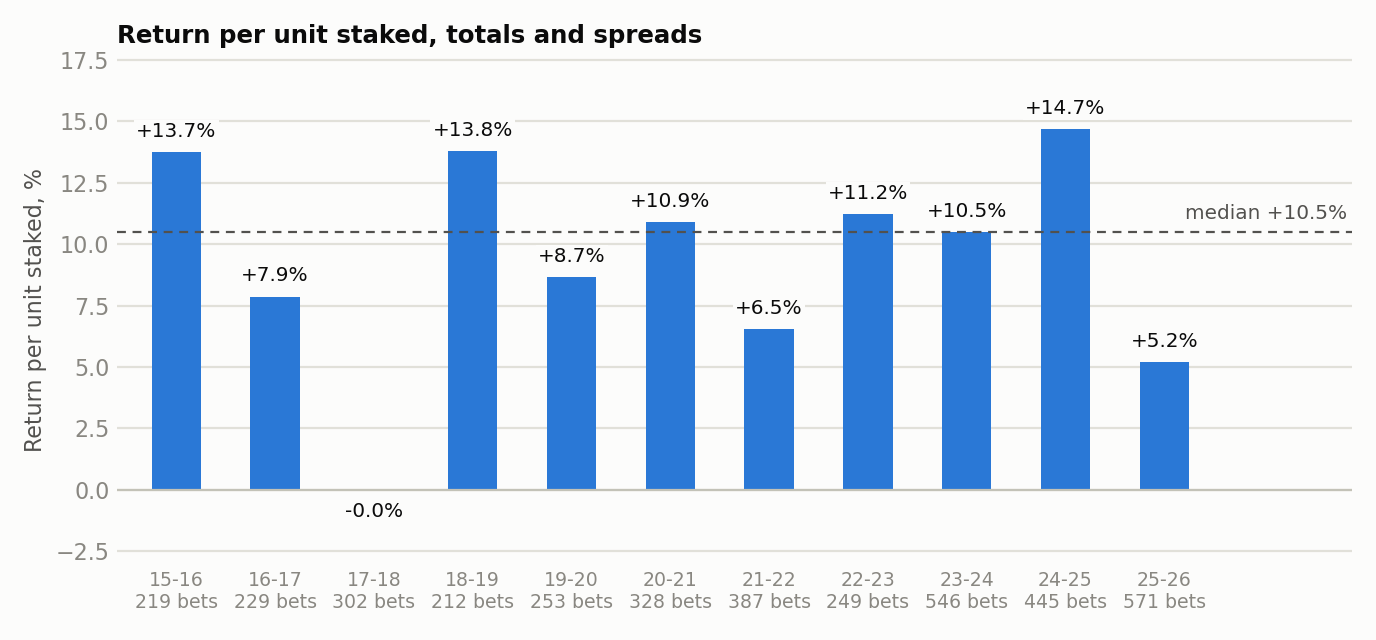
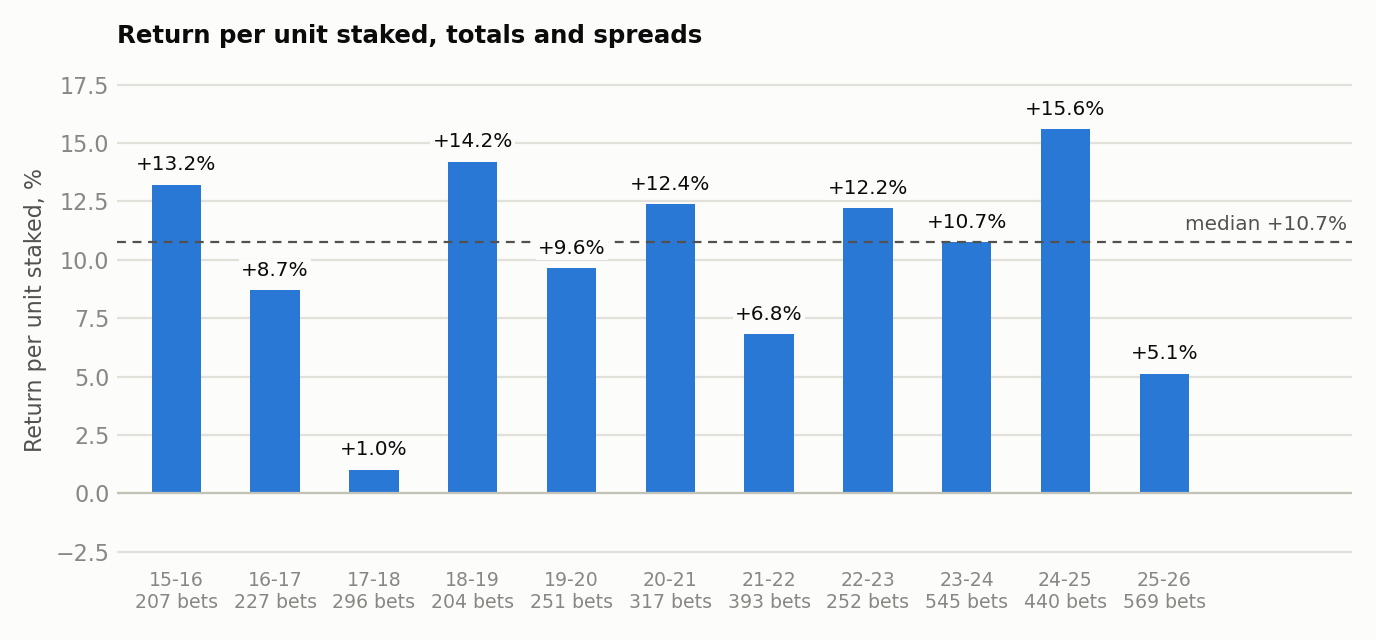
Spread backtest rebuilt with every game priced by the current model

diff --git a/docs/STRATEGIES.md b/docs/STRATEGIES.md
@@ -16,17 +16,17 @@ Everything here assumes the opening line is actually bet, which has not been sho
 
 | Strategy | Bets per season | Cover | ROI per bet | Season return at 1% stakes | Status |
 |---|---|---|---|---|---|
-| Spread, model gap 2+ points | 57 | 56.4% | +7.7% | +4.4% | Backtest only |
+| Spread, model gap 2+ points | 59 | 56.9% | +8.7% | +5.1% | Backtest only |
 | Totals, model gap 2+ points | 170 | 55.3% | +5.5% | +9.3% | Passed a pre-declared test |
 | Totals, same rule on 2007-12 (never tuned on) | 137 | 57.4% | +9.5% | +13.0% | Holdout |
 | Totals, bet only within 1 point of the opener | about 140 | about 55.3% | about +5.5% | about +8% | Under live test |
-| Either rule, stake in proportion to the gap | same bets | same | +9.1% spread, +6.9% totals | +6.7%, +16.1% | Logged beside the flat stake |
+| Either rule, stake in proportion to the gap | same bets | same | +9.8% spread, +6.9% totals | +7.5%, +16.1% | Logged beside the flat stake |
 | Moneyline, four rules frozen before the season | about 75 | not comparable | no line value | not estimated | Live; likely no edge |
 | Player points | not a rule yet | 52.6% at a 5+ point probability gap | +0.7% | not estimated | Not bettable |
 
 The gap is how far the model's number sits from the line, in points.
 
-Every weight behind these figures was learned from seasons before the one being scored. An earlier version of this page combined the spread model's pieces as they had been designed on 2021-22 to 2025-26, which flattered those seasons (60.2% against 56.2% before); with the weights learned walk-forward the rule covers 57.1% on 392 bets in 2012-21 and 55.7% on 409 since, and [how the pieces are weighted](#how-the-pieces-are-weighted) has the detail. The totals model was specified before its results were looked at.
+Every weight behind these figures was learned from seasons before the one being scored. An earlier version of this page combined the spread model's pieces as they had been designed on 2021-22 to 2025-26, which flattered those seasons (60.2% against 56.2% before); with the weights learned walk-forward the rule covers 57.7% on 409 bets in 2012-21 and 56.2% on 420 since, and [how the pieces are weighted](#how-the-pieces-are-weighted) has the detail. The totals model was specified before its results were looked at.
 
 The 2024-25 opening lines behind these figures were repaired after a fault in the source feed, which the [engine page](ENGINE.md#a-repair-to-the-2024-25-opening-lines) describes.
 
@@ -46,32 +46,32 @@ Across 15,911 games the final margin moves 0.39 points for every point the model
 
 ### Bigger gaps cover more
 
-A gap of a given size, set against an outcome spread of 12.6 points, implies a cover rate, and actual results follow it loosely: the two lower bands fall short of it and the top band matches.
+A gap of a given size, set against an outcome spread of 12.6 points, implies a cover rate, and actual results follow it: the two lower bands fall a point or two short and the top band matches.
 
 | Gap | Implied by the model | Actual | Bets |
 |---|---|---|---|
-| 2 to 2.5 | 57.0% | 55.4% | 480 |
-| 2.5 to 3 | 58.5% | 55.0% | 189 |
-| 3+ | 61.5% | 62.1% | 132 |
+| 2 to 2.5 | 57.0% | 56.0% | 491 |
+| 2.5 to 3 | 58.5% | 56.2% | 201 |
+| 3+ | 61.5% | 61.3% | 137 |
 
 ### By month
 
 | Month | Cover | Bets |
 |---|---|---|
-| Oct-Nov | 61.9% | 215 |
-| Dec | 53.8% | 80 |
-| Jan | 58.5% | 82 |
-| Feb | 51.2% | 86 |
-| Mar | 58.2% | 170 |
-| Apr | 49.3% | 144 |
+| Oct-Nov | 61.7% | 222 |
+| Dec | 57.5% | 87 |
+| Jan | 58.8% | 85 |
+| Feb | 52.8% | 89 |
+| Mar | 57.6% | 172 |
+| Apr | 50.3% | 149 |
 
 ### Best in October and November
 
-The model is no more accurate per point early in the season. It earns 0.34 points of result per point of gap in October and November, against 0.43 from December to March. What changes is how far it disagrees with the opener: the spread of that disagreement is 2.9 points early and 2.6 later. As a result 5.8% of early games reach the 2-point threshold, compared with 3.6% later, and they clear it by more.
+The model is no more accurate per point early in the season. It earns 0.34 points of result per point of gap in October and November, against 0.43 from December to March. What changes is how far it disagrees with the opener: the spread of that disagreement is 2.9 points early and 2.6 later. As a result 6.0% of early games reach the 2-point threshold, compared with 3.8% later, and they clear it by more.
 
 ### April loses
 
-April is where the model disagrees with the opener most, at 3.4 points, and is right least, at 0.26 points of result per point of gap, and its bets cover 49.3%, which is below break-even. April games also carry more expected absences, 2.7 a game against 1.9, and on 2019-26 the April bets in games with three or more expected absences covered 45.7% (46 bets) against 54.5% for the rest (33 bets). That points at absences, but on samples far too small to settle it, and the same split pointed the other way on an earlier build of the model. April stays a known weak month without an explanation.
+April is where the model disagrees with the opener most, at 3.4 points, and is right least, at 0.26 points of result per point of gap, and its bets cover 50.3%, which is below break-even. April games also carry more expected absences, 2.7 a game against 1.9, and on 2019-26 the April bets in games with three or more expected absences covered 46.8% (47 bets) against 58.3% for the rest (36 bets). That points at absences, but on samples far too small to settle it, and the same split pointed the other way on an earlier build of the model. April stays a known weak month without an explanation.
 
 ## Totals rule
 
@@ -132,9 +132,9 @@ February is strong in both samples, and the All-Star break is not the reason, si
 
 ## Sizing and thresholds
 
-Staking in proportion to the gap (1 unit at 2 points, capped at 2.5) raises ROI from +7.7% to +9.1% on spreads and from +5.5% to +6.9% on totals. This follows from the gap tables above, because bigger gaps cover more. It trims the losing seasons from 4 of 14 to 3 on spreads and from 2 to 1 on totals.
+Staking in proportion to the gap (1 unit at 2 points, capped at 2.5) raises ROI from +8.7% to +9.8% on spreads and from +5.5% to +6.9% on totals. This follows from the gap tables above, because bigger gaps cover more. It trims the losing seasons from 3 of 14 to 2 on spreads and from 2 to 1 on totals.
 
-A higher threshold gives more per bet and less in total. Spread bets at a gap of 2.5+ cover 57.9% for +10.6%, on 23 bets a season. Totals bets at 3+ cover 59.7% for +13.9%, on 44 a season.
+A higher threshold gives more per bet and less in total. Spread bets at a gap of 2.5+ cover 58.3% for +11.3%, on 24 bets a season. Totals bets at 3+ cover 59.7% for +13.9%, on 44 a season.
 
 On the totals rule, quarter Kelly returned +9.6% a season on average, with a median of +4.7% and a standard deviation of 14.0%. Full Kelly reached a 68% drawdown; the detail is in [SEASON_2026_27.md](SEASON_2026_27.md).
 
@@ -146,13 +146,13 @@ The table runs both rules together with sized stakes, where the base stake is a 
 
 | Base stake | Median season | Worst season | Losing seasons | Worst drawdown within a season |
 |---|---|---|---|---|
-| 1% | +17.6% | -10.3% | 2 of 14 | 22% |
-| 2% | +33.2% | -22.5% | 2 of 14 | 43% |
-| 3% | +46.8% | -37.0% | 3 of 14 | 55% |
-| 5% | +65.0% | -64.8% | 2 of 14 | 72% |
-| 8% | +61.0% | -82.1% | 2 of 14 | 86% |
+| 1% | +19.0% | -9.4% | 2 of 14 | 22% |
+| 2% | +38.6% | -21.0% | 2 of 14 | 43% |
+| 3% | +53.3% | -35.2% | 2 of 14 | 55% |
+| 5% | +74.0% | -63.5% | 2 of 14 | 71% |
+| 8% | +81.9% | -81.4% | 2 of 14 | 85% |
 
-Drawdown grows almost in step with the stake, and the median return stops growing before the drawdown does: the 8% row already sits below the 5% row, and at a 12% base stake the median is +49.0% with a 95% drawdown. The longest losing run was 11 bets, and the busiest night carried 18 bets at once. Mean returns run far above the medians at the larger stakes, because a few seasons compound to several times the bankroll, which is why the table leaves them out.
+Drawdown grows almost in step with the stake, and the median return stops growing before the drawdown does: at a 12% base stake the median is +79.7%, below the 8% row, with a 95% drawdown and four losing seasons. The longest losing run was 10 bets, and the busiest night carried 18 bets at once. Mean returns run far above the medians at the larger stakes, because a few seasons compound to several times the bankroll, which is why the table leaves them out.
 
 ## Why the rules win
 
@@ -178,14 +178,14 @@ The older seasons stay behind the recent ones at every level, so the missing fee
 
 The market-blind spread model is the sum of five pieces: a team-strength estimate from the four factors, a second one from player ratings and expected minutes, a schedule term for home court and back-to-backs, a late-season tanking term, and a set of late-season and absence adjustments. As first built the pieces were simply added, the tanking term was switched on only from 2020-21, and the whole arrangement was designed on 2021-22 to 2025-26. That flattered those seasons, and nearly all of the flattery came from the tanking term.
 
-The backtest on this page now gives each piece a weight, refitted before every season by a regression of the final margin on the five pieces over all earlier seasons, and it switches the tanking term on throughout. Six numbers are tuned in all, the five weights and a constant, and none of them has seen the season it scores. The weights hold steady from year to year: about 0.6 on the four-factor piece, 1.2 on the player piece, 0.9 to 1.0 on schedule and tanking, and 0.3 rising to 0.8 on the adjustments.
+The backtest on this page now gives each piece a weight, refitted before every season by a regression of the final margin on the five pieces over all earlier seasons, and it switches the tanking term on throughout. Six numbers are tuned in all, the five weights and a constant, and none of them has seen the season it scores. The weights hold steady from year to year: about 0.6 on the four-factor piece, 1.2 on the player piece, 0.9 to 1.0 on schedule and tanking, and 0.4 rising to 0.8 on the adjustments.
 
 | Spread rule, gap 2+ | 2012-21 | 2021-26 | All 14 seasons |
 |---|---|---|---|
 | As first built, designed on 2021-26 | 56.2% | 60.2% | 58.3% |
-| Weights learned from earlier seasons (this page) | 57.1% | 55.7% | 56.4% |
+| Weights learned from earlier seasons (this page) | 57.7% | 56.2% | 56.9% |
 
-Walk-forward was chosen on principle, and then checked against 1,375 other ways of picking the tuning seasons: random samples of a third, a half, two-thirds or all of the seasons before each of ten cutoff years, with recent seasons weighted more, less or equally. On a simplified version of this backtest the spread rule covered 55.7% on average across them, with nine in ten between 54.1% and 57.5% and 99% above break-even, and no cutoff, sample size or weighting moved the average by more than about a point. The model as first built sat above 98% of them, which is what a design fitted to its own test seasons looks like. Weighting recent seasons more heavily, or fitting on only the last five or eight, left the forecast error unchanged and made the best season larger, so the plain version was kept.
+Walk-forward was chosen on principle, and then checked against 1,375 other ways of picking the tuning seasons: random samples of a third, a half, two-thirds or all of the seasons before each of ten cutoff years, with recent seasons weighted more, less or equally. The spread rule covered 55.9% on average across them, with nine in ten between 54.4% and 57.6% and all but a handful above break-even, and no cutoff, sample size or weighting moved the average by more than about a point. The model as first built sat above 97% of them, which is what a design fitted to its own test seasons looks like. Weighting recent seasons more heavily, or fitting on only the last five or eight, left the forecast error unchanged and gave a weaker worst season, so the plain version was kept.
 
 ### Not roster or league change
 
@@ -193,13 +193,13 @@ A model built on player ratings might be expected to win most when rosters chang
 
 | Combined turnover | Spread cover | Bets | Totals cover | Bets |
 |---|---|---|---|---|
-| Low | 57.8% | 249 | 54.9% | 887 |
-| Middle | 56.5% | 294 | 54.9% | 827 |
-| High | 55.0% | 258 | 56.2% | 666 |
+| Low | 58.1% | 258 | 54.9% | 887 |
+| Middle | 56.3% | 302 | 54.9% | 827 |
+| High | 56.5% | 269 | 56.2% | 666 |
 
-In a regression of win on gap, turnover and early season, the turnover coefficient is about zero for both rules (p = 0.57 on spreads and 0.73 on totals). The model's disagreement with the opener is also no wider when turnover is high. The early-season spread edge does not come from new rosters either, since October and November bets covered 67.6% in low-turnover games (74 bets) and 64.0% in high-turnover games (75 bets). Backing the team that was worse last season covered 56.9% (378 bets), against 55.9% for backing the better one (422 bets).
+In a regression of win on gap, turnover and early season, the turnover coefficient is about zero for both rules (p = 0.77 on spreads and 0.73 on totals). The model's disagreement with the opener is also no wider when turnover is high. The early-season spread edge does not come from new rosters either, since October and November bets covered 67.5% in low-turnover games (77 bets) and 62.7% in high-turnover games (75 bets). Backing the team that was worse last season covered 57.0% (393 bets), against 56.8% for backing the better one (435 bets).
 
-Season by season the picture is the same. Spread cover is uncorrelated with league-wide turnover (-0.04) and with the year-on-year change in league scoring (+0.09, on 14 seasons). Totals cover falls with league turnover (-0.56), which is most likely a shared time trend, because turnover has drifted down over the years in which totals bets have grown.
+Season by season the picture is the same. Spread cover is uncorrelated with league-wide turnover (-0.09) and with the year-on-year change in league scoring (+0.20, on 14 seasons). Totals cover falls with league turnover (-0.56), which is most likely a shared time trend, because turnover has drifted down over the years in which totals bets have grown.
 
 ### Not periods of change either
 
@@ -207,18 +207,18 @@ The same question was asked of the stretches when rosters shift during a season,
 
 | Cut | Spread cover | Bets | Totals cover | Bets |
 |---|---|---|---|---|
-| Rotation stable over the last 15 games | 64.8% | 128 | 56.5% | 503 |
-| Rotation churning | 51.3% | 302 | 57.1% | 694 |
-| 28 days before the trade deadline | 61.3% | 62 | 53.1% | 254 |
-| 21 days after the trade deadline | 48.5% | 101 | 61.8% | 254 |
-| First 20 games, a rebuilt team in the game | 61.2% | 116 | 50.2% | 263 |
-| First 20 games, no rebuilt team | 59.7% | 124 | 52.6% | 456 |
-| 30 days after the deadline, a traded team in the game | 50.0% | 92 | 57.6% | 210 |
-| 30 days after the deadline, no traded team | 55.4% | 56 | 61.1% | 131 |
+| Rotation stable over the last 15 games | 65.6% | 131 | 56.5% | 503 |
+| Rotation churning | 52.7% | 311 | 57.1% | 694 |
+| 28 days before the trade deadline | 62.5% | 64 | 53.1% | 254 |
+| 21 days after the trade deadline | 50.0% | 104 | 61.8% | 254 |
+| First 20 games, a rebuilt team in the game | 60.7% | 117 | 50.2% | 263 |
+| First 20 games, no rebuilt team | 60.0% | 130 | 52.6% | 456 |
+| 30 days after the deadline, a traded team in the game | 52.6% | 97 | 57.6% | 210 |
+| 30 days after the deadline, no traded team | 55.2% | 58 | 61.1% | 131 |
 
-Churn compares who played a team's last 5 games with the 10 before. A rebuilt team is in the top quarter for offseason turnover, and a traded team is one whose deadline arrivals went on to play 10% or more of its minutes. When rotations are churning the spread model fires on more games (6.8% against 2.9%) but is right less per point of gap (0.94 against 1.42), so cover falls instead of rising. The jump in totals cover after the deadline looked like a finding until it was run on the 2007-12 holdout, where it reversed to 59.8% before the deadline and 50.6% after.
+Churn compares who played a team's last 5 games with the 10 before. A rebuilt team is in the top quarter for offseason turnover, and a traded team is one whose deadline arrivals went on to play 10% or more of its minutes. When rotations are churning the spread model fires on more games (7.0% against 2.9%) but is right less per point of gap (0.94 against 1.41), so cover falls instead of rising. The jump in totals cover after the deadline looked like a finding until it was run on the 2007-12 holdout, where it reversed to 59.8% before the deadline and 50.6% after.
 
-One pattern points the other way and is recorded here as a lead. On spreads, bets where the model backs a rebuilt team covered 60.1% (153 bets), while bets where it fades one covered 52.3% (128 bets), and the same direction shows after the deadline and, more weakly, early in the season. The samples overlap, though, and a single test with no thresholds is positive without being significant (p = 0.16), so it waits for a season it was not found on.
+One pattern points the other way and is recorded here as a lead. On spreads, bets where the model backs a rebuilt team covered 61.5% (161 bets), while bets where it fades one covered 52.3% (128 bets), and the same direction shows after the deadline and, more weakly, early in the season. The samples overlap, though, and a single test with no thresholds is positive without being significant (p = 0.14), so it waits for a season it was not found on.
 
 If the edge came from understanding change it should rise with turnover, and it does not. What the bets have in common is a rough opening number: bet counts more than doubled from 2023, as opening totals began to sit further from the model.
 
@@ -241,4 +241,4 @@ Two of these looked like improvements until they were run on seasons they had no
 
 ## Open questions
 
-The first unknown is whether the opening line can be bet in practice, since both rules lose their edge at later prices. The second is whether any of this holds live, which the paper views began recording on 2026-11-16. The last three seasons also supply most of the backtest profit, because they hold far more bets than the earlier ones. One of them, 2024-25, accounts for 22% of the spread rule's profit on its own (60.0% on 95 bets); without it the rule covers 55.9% on 706 bets. Its rules were learned from earlier seasons and the result holds at two other sources of opening lines, but the choice of which rules to report was made with that season in view.
+The first unknown is whether the opening line can be bet in practice, since both rules lose their edge at later prices. The second is whether any of this holds live, which the paper views began recording on 2026-11-16. The last three seasons also supply most of the backtest profit, because they hold far more bets than the earlier ones. One of them, 2024-25, accounts for 22% of the spread rule's profit on its own (60.6% on 99 bets); without it the rule covers 56.4% on 730 bets. Its rules were learned from earlier seasons and the result holds at two other sources of opening lines, but the choice of which rules to report was made with that season in view.

diff --git a/docs/ENGINE.md b/docs/ENGINE.md
@@ -2,7 +2,7 @@
 
 This page asks what happens when every rule on the [strategies page](STRATEGIES.md) is used at once. The engine bets by size of disagreement, by time of season and by side, and sizes each stake to the estimated edge. Each season is bet with rules learned from earlier seasons.
 
-Per unit staked the engine returns about +9%, and between 0% and +15% in every one of the 11 seasons. Compounded at quarter Kelly that is a median season of +55% of bankroll; ten seasons are profitable and the other finishes flat, at -0.2%. The season returns are the same edge multiplied by stake size, and all of it assumes the opening line can be bet.
+Per unit staked the engine returns about +10%, and between +1% and +16% in every one of the 11 seasons. Compounded at quarter Kelly that is a median season of +65% of bankroll, with all 11 seasons profitable and the weakest at +5.9%. The season returns are the same edge multiplied by stake size, and all of it assumes the opening line can be bet.
 
 ![return per unit staked by season](../charts/engine_per_unit.png)
 
@@ -10,7 +10,7 @@ Per unit staked the engine returns about +9%, and between 0% and +15% in every o
 
 ## How it works
 
-The candidates are the 6,404 games from 2012-13 to 2025-26 where the spread model or the totals model is 1.5 or more points from the opening line. Each model's prediction for a season comes from a fit on earlier seasons, and that includes the weights that combine the spread model's five pieces, which are refitted before each season on the seasons before it ([how the pieces are weighted](STRATEGIES.md#how-the-pieces-are-weighted)). The spread model knows who is expected to play from the injury-report feed where one exists (December 2018 on) and from a synthetic feed built from box scores before that; the [strategies page](STRATEGIES.md#knowing-who-plays) shows what each is worth.
+The candidates are the 6,442 games from 2012-13 to 2025-26 where the spread model or the totals model is 1.5 or more points from the opening line. Each model's prediction for a season comes from a fit on earlier seasons, and that includes the weights that combine the spread model's five pieces, which are refitted before each season on the seasons before it ([how the pieces are weighted](STRATEGIES.md#how-the-pieces-are-weighted)). The spread model knows who is expected to play from the injury-report feed where one exists (December 2018 on) and from a synthetic feed built from box scores before that; the [strategies page](STRATEGIES.md#knowing-who-plays) shows what each is worth.
 
 For each test season, a regression is fitted on the candidates of earlier seasons. It estimates whether a bet wins from the size of the gap, the market, the part of the season and the side taken. The stake is a quarter of the Kelly stake that probability implies. There is no bet at or below break-even, and no more than 25% of the bankroll is at risk on one night.
 
@@ -20,40 +20,40 @@ The test seasons are 2015-16 to 2025-26, and nothing from a test season is used 
 
 | Engine | Median season | Worst season | Largest drawdown | ROI per unit staked | Bets per season |
 |---|---|---|---|---|---|
-| Gap size only | +40.6% | -1.2% | 30% | +9.7% | 410 |
-| + time of season | +61.8% | -1.2% | 33% | +8.7% | 352 |
-| + side | +47.3% | +5.9% | 30% | +10.5% | 369 |
-| All rules | +55.3% | -0.2% | 31% | +9.4% | 340 |
+| Gap size only | +39.8% | +1.0% | 30% | +9.9% | 404 |
+| + time of season | +63.8% | -0.1% | 31% | +9.0% | 347 |
+| + side | +47.4% | +19.7% | 32% | +11.1% | 363 |
+| All rules | +64.6% | +5.9% | 32% | +10.0% | 336 |
 
-The seasonal rules beat the gap-only engine in 7 of 11 seasons, and all rules together beat it in 8. The means sit well above the medians because 2023-24 and 2024-25 were large: the all-rules mean is +93.2%, and without 2024-25 the mean is +66.3% and the median +55.2%.
+The seasonal rules beat the gap-only engine in 7 of 11 seasons, and all rules together beat it in 8. The means sit well above the medians because 2023-24 and 2024-25 were large: the all-rules mean is +106.4%, and without 2024-25 the mean is +72.3% and the median +58.1%.
 
-Larger stakes raise both the return and the risk. At half Kelly the all-rules median is +117% with a 54% drawdown. At full Kelly it is +234%, with a 73% drawdown and a worst season of -57%.
+Larger stakes raise both the return and the risk. At half Kelly the all-rules median is +117% with a 55% drawdown. At full Kelly it is +256%, with a 74% drawdown and a worst season of -47%.
 
 | Season | Bets | Cover | ROI per unit staked | Season return | Largest drawdown |
 |---|---|---|---|---|---|
-| 2015-16 | 219 | 59.4% | +13.7% | +55.3% | 14% |
-| 2016-17 | 229 | 56.3% | +7.9% | +46.9% | 13% |
-| 2017-18 | 302 | 50.3% | 0.0% | -0.2% | 21% |
-| 2018-19 | 212 | 58.5% | +13.8% | +48.5% | 21% |
-| 2019-20 | 253 | 53.8% | +8.7% | +38.4% | 29% |
-| 2020-21 | 328 | 58.2% | +10.9% | +82.8% | 13% |
-| 2021-22 | 387 | 57.6% | +6.5% | +70.1% | 31% |
-| 2022-23 | 249 | 57.8% | +11.2% | +55.2% | 19% |
-| 2023-24 | 546 | 53.8% | +10.5% | +184.2% | 20% |
-| 2024-25 | 445 | 58.4% | +14.7% | +362.1% | 20% |
-| 2025-26 | 571 | 55.3% | +5.2% | +81.8% | 27% |
+| 2015-16 | 207 | 58.5% | +13.2% | +51.6% | 13% |
+| 2016-17 | 227 | 56.8% | +8.7% | +51.0% | 13% |
+| 2017-18 | 296 | 51.0% | +1.0% | +5.9% | 17% |
+| 2018-19 | 204 | 58.8% | +14.2% | +48.1% | 22% |
+| 2019-20 | 251 | 53.8% | +9.6% | +42.2% | 27% |
+| 2020-21 | 317 | 58.0% | +12.4% | +93.4% | 12% |
+| 2021-22 | 393 | 56.5% | +6.8% | +75.9% | 32% |
+| 2022-23 | 252 | 57.1% | +12.2% | +64.6% | 19% |
+| 2023-24 | 545 | 54.3% | +10.7% | +207.0% | 18% |
+| 2024-25 | 440 | 58.4% | +15.6% | +447.3% | 20% |
+| 2025-26 | 569 | 55.5% | +5.1% | +83.2% | 28% |
 
 ## Why recent seasons are larger
 
-The two largest returns are 2023-24 and 2024-25, and in a backtest that deserves suspicion. An earlier version of this page had a real problem here: the spread model's pieces were combined as they had been designed on 2021-22 to 2025-26, and the spread rule covered 60.2% in those seasons against 56.2% before. The pieces are now weighted from earlier seasons only, and that gap is gone, with the rule covering 55.7% from 2021-22 on and 57.1% in the nine seasons before. What still carries hindsight is the choice of the pieces themselves, which was made with recent seasons in view. The totals model was specified in November 2026 before its results were looked at.
+The two largest returns are 2023-24 and 2024-25, and in a backtest that deserves suspicion. An earlier version of this page had a real problem here: the spread model's pieces were combined as they had been designed on 2021-22 to 2025-26, and the spread rule covered 60.2% in those seasons against 56.2% before. The pieces are now weighted from earlier seasons only, and that gap is gone, with the rule covering 56.2% from 2021-22 on and 57.7% in the nine seasons before. What still carries hindsight is the choice of the pieces themselves, which was made with recent seasons in view. The totals model was specified in November 2026 before its results were looked at.
 
-What is left is volume, not a higher return per bet: per unit staked, 2023-24 earned 10.5% and 2024-25 14.7%, against 13.7% in 2015-16 and 13.8% in 2018-19.
+What is left is volume, not a higher return per bet: per unit staked, 2023-24 earned 10.7% and 2024-25 15.6%, against 13.2% in 2015-16 and 14.2% in 2018-19.
 
 ![bets and return per unit staked by season](../charts/engine_bets_and_roi.png)
 
-The engine placed 521 bets a season from 2023-24 on, against 272 before, as opening totals began to sit further from the model, at about the same stake on each (2.0% of the bankroll against 1.8%). Total stakes over a season therefore rose from roughly five times the bankroll to about ten, and because each stake is a share of the current bankroll, the same edge compounds into a far larger season. The stake sizes are also why these figures should not be read as achievable: opening lines carry low limits, and nobody gets ten times their bankroll down on them in a season.
+The engine placed 518 bets a season from 2023-24 on, against 268 before, as opening totals began to sit further from the model, at a slightly larger stake on each (2.1% of the bankroll against 1.7%). Total stakes over a season therefore rose from roughly five times the bankroll to about eleven, and because each stake is a share of the current bankroll, the same edge compounds into a far larger season. The stake sizes are also why these figures should not be read as achievable: opening lines carry low limits, and nobody gets eleven times their bankroll down on them in a season.
 
-Profit per bet barely changed. Across the two flat-stake rules, bets covered 55.7% for +6.4% per bet up to 2022-23 and 55.2% for +5.4% from 2023-24 on, while the number of bets a season went from 182 to 393, most of the increase in totals. Two checks rule out the obvious objections. Rerunning the totals model on opening lines from a second source gives the same volume and a 55.4% cover rate, so the extra bets are not a quirk of one data feed; and a totals model fitted on 2007-17 and never updated still covers 56.1% in 2023-26, on 227 bets a season against 157 before, so they are not a fit to recent seasons either. The volume is still the part least likely to carry over: so far this season 11% of totals reach the 2-point threshold at the line actually on screen, against 25% in the backtest's recent seasons.
+Profit per bet barely changed. Across the two flat-stake rules, bets covered 55.9% for +6.7% per bet up to 2022-23 and 55.3% for +5.6% from 2023-24 on, while the number of bets a season went from 184 to 395, most of the increase in totals. Two checks rule out the obvious objections. Rerunning the totals model on opening lines from a second source gives the same volume and a 55.4% cover rate, so the extra bets are not a quirk of one data feed; and a totals model fitted on 2007-17 and never updated still covers 56.1% in 2023-26, on 227 bets a season against 157 before, so they are not a fit to recent seasons either. The volume is still the part least likely to carry over: so far this season 11% of totals reach the 2-point threshold at the line actually on screen, against 25% in the backtest's recent seasons.
 
 ## A repair to the 2024-25 opening lines
 
@@ -71,30 +71,30 @@ Fitted on all seasons, the engine assigns these win rates to typical bets.
 | Totals over, gap 2, Oct-Nov | 50.3% | No |
 | Totals under, gap 2, Dec-Jan | 57.5% | Yes |
 | Totals over, gap 4, Dec-Jan | 60.4% | Yes |
-| Spread, gap 2, Oct-Nov | 56.1% | Yes |
-| Spread, gap 3, Oct-Nov | 59.7% | Yes |
-| Spread, gap 2, April | 54.1% | Yes |
+| Spread, gap 2, Oct-Nov | 56.9% | Yes |
+| Spread, gap 3, Oct-Nov | 60.2% | Yes |
+| Spread, gap 2, April | 54.5% | Yes |
 
 These are the patterns on the strategies page, except that here each was learned from earlier seasons and then applied to the next one.
 
 ## A simpler engine
 
-The simpler engine groups bets by market and gap size. It estimates each group's win rate from earlier seasons, pulls that estimate strongly toward break-even, and bets the groups that still clear it. It stakes less and places 193 bets a season.
+The simpler engine groups bets by market and gap size. It estimates each group's win rate from earlier seasons, pulls that estimate strongly toward break-even, and bets the groups that still clear it. It stakes less and places 195 bets a season.
 
 | | Median season | Mean | Volatility (sd) | Worst | Losing seasons | ROI per unit staked |
 |---|---|---|---|---|---|---|
-| Totals + spread | +12.0% | +26.8% | 33.6% | -9.9% | 1 of 11 | +10.5% |
+| Totals + spread | +12.8% | +28.3% | 34.3% | -12.4% | 1 of 11 | +10.2% |
 | Totals only | +9.0% | +19.8% | 26.7% | -3.1% | 2 of 11 | +9.8% |
-| Spread only | +3.5% | +5.3% | 10.5% | -6.9% | 3 of 11 | +9.5% |
+| Spread only | +7.2% | +6.5% | 11.8% | -9.5% | 3 of 11 | +8.8% |
 
-## Where the +55% comes from
+## Where the +65% comes from
 
-The figure is leverage, not extra skill: ROI per unit staked is about +9% in the full engine and +10.5% in the simple one. The full engine returns more because it places 340 bets a season at larger stakes. Adding the seasonal and side rules does not improve the win-probability forecast itself, whose log loss goes from 0.68735 to 0.68755.
+The figure is leverage, not extra skill: ROI per unit staked is about +10% in both the full engine and the simple one. The full engine returns more because it places 336 bets a season at larger stakes. Adding the seasonal and side rules does not improve the win-probability forecast itself, whose log loss goes from 0.68729 to 0.68735.
 
 More bets did not mean more profit per bet. Bets per season more than doubled after 2022, as opening totals began moving more and the lower-gap groups, which win about 54%, came into play.
 
 The figure also assumes every opening line is bet at -110 with 2 to 4% of the bankroll. First lines carry low limits, and most of their move toward the close happens overnight and on game day.
 
-The engine is not safe from a bad year. In 2017-18 it won 50.3% of its bets, earned nothing per unit staked and finished down 0.2% after a 21% drawdown; the gap-only and seasonal versions each lost 1.2% that season, and the simpler engine lost 9.9%.
+The engine is not safe from a bad year. In 2017-18 it won 51.0% of its bets, earned 1.0% per unit staked and finished up only 5.9% after a 17% drawdown; the seasonal version lost 0.1% that season and the simpler engine lost 12.4%.
 
 None of this has been shown live; the paper views began recording the price actually available on 2026-11-16.

diff --git a/README.md b/README.md
@@ -6,14 +6,14 @@ A market-anchored NBA model for spreads and totals, together with the research r
 
 | | |
 |---|---|
-| +55% | Median season return of the full betting engine at quarter Kelly, across 11 seasons it had not seen; ten were profitable and the other finished flat, at -0.2%. |
-| 56.3% | Share of the engine's bets won, against a break-even of 52.4%, for a return of about +9% per unit staked on 340 bets a season. |
-| 56.4% | Share of spread-rule bets won when the model is 2 or more points from the opening spread, over 801 bets from 2012 to 2026, with every weight in the model learned from earlier seasons. |
+| +65% | Median season return of the full betting engine at quarter Kelly, across 11 seasons it had not seen; all 11 were profitable, the weakest at +5.9%. |
+| 56.3% | Share of the engine's bets won, against a break-even of 52.4%, for a return of about +10% per unit staked on 336 bets a season. |
+| 56.9% | Share of spread-rule bets won when the model is 2 or more points from the opening spread, over 829 bets from 2012 to 2026, with every weight in the model learned from earlier seasons. |
 | 55.3% | Share of totals-rule bets won when the model is 2 or more points from the opening total, over 2,380 bets; it beat break-even in 12 of 14 seasons and won 57.4% on five further seasons it was never tuned on. |
 
 These are backtests that assume the opening line is bet, which has not been shown live, and at the prices available later in the day the edge disappears. No capital has been deployed on any of it.
 
-Every season is scored with weights learned only from the seasons before it, including the weights that combine the spread model's pieces, so no weight was fitted on the season it scores; the choice of those pieces was still made with recent seasons in view. Per unit staked the engine earned between 0% and +15% in each of them. Compounded at quarter Kelly, 2023-24 and 2024-25 come out much the largest (+184% and +362%) because the engine placed twice as many bets in them; the [engine page](docs/ENGINE.md#why-recent-seasons-are-larger) sets that out, along with a repair made to the 2024-25 opening lines.
+Every season is scored with weights learned only from the seasons before it, including the weights that combine the spread model's pieces, so no weight was fitted on the season it scores; the choice of those pieces was still made with recent seasons in view. Per unit staked the engine earned between +1% and +16% in each of them. Compounded at quarter Kelly, 2023-24 and 2024-25 come out much the largest (+207% and +447%) because the engine placed twice as many bets in them; the [engine page](docs/ENGINE.md#why-recent-seasons-are-larger) sets that out, along with a repair made to the 2024-25 opening lines.
 
 ![return per unit staked by season](charts/engine_per_unit.png)
 

diff --git a/docs/SEASON_2026_27.md b/docs/SEASON_2026_27.md
@@ -234,7 +234,7 @@ Other cuts of the same games agree: totals at a 3+ point gap against the opener 
 | Bet type | This season, through 11-04 | Backtest | Verdict |
 |---|---|---|---|
 | Moneyline, all games | Log loss 0.5769 vs market 0.5704 at 10am | Beat the opener in 13 of 14 seasons | Behind so far, not significant |
-| Spread, gap 2+, first line the day before | 5-0 (10-6 at gap 1.5+) | 56.4% on 801 bets, 2012-26 | Ahead, but very few bets, and the rule was shaped on these dates |
+| Spread, gap 2+, first line the day before | 5-0 (10-6 at gap 1.5+) | 56.9% on 829 bets, 2012-26 | Ahead, but very few bets, and the rule was shaped on these dates |
 | Game totals, gap 2+, opening total | 22-13 | 55.3% on 2,380 bets, 2012-26; 57.4% on 685 bets, 2007-12 | Ahead, clean test |
 | Game totals, gap 2+, first total seen on game day | 14-13 | None | Break-even |
 | Player points | Log loss 0.7147 vs line 0.6904 | None | Worse than the line overall |
